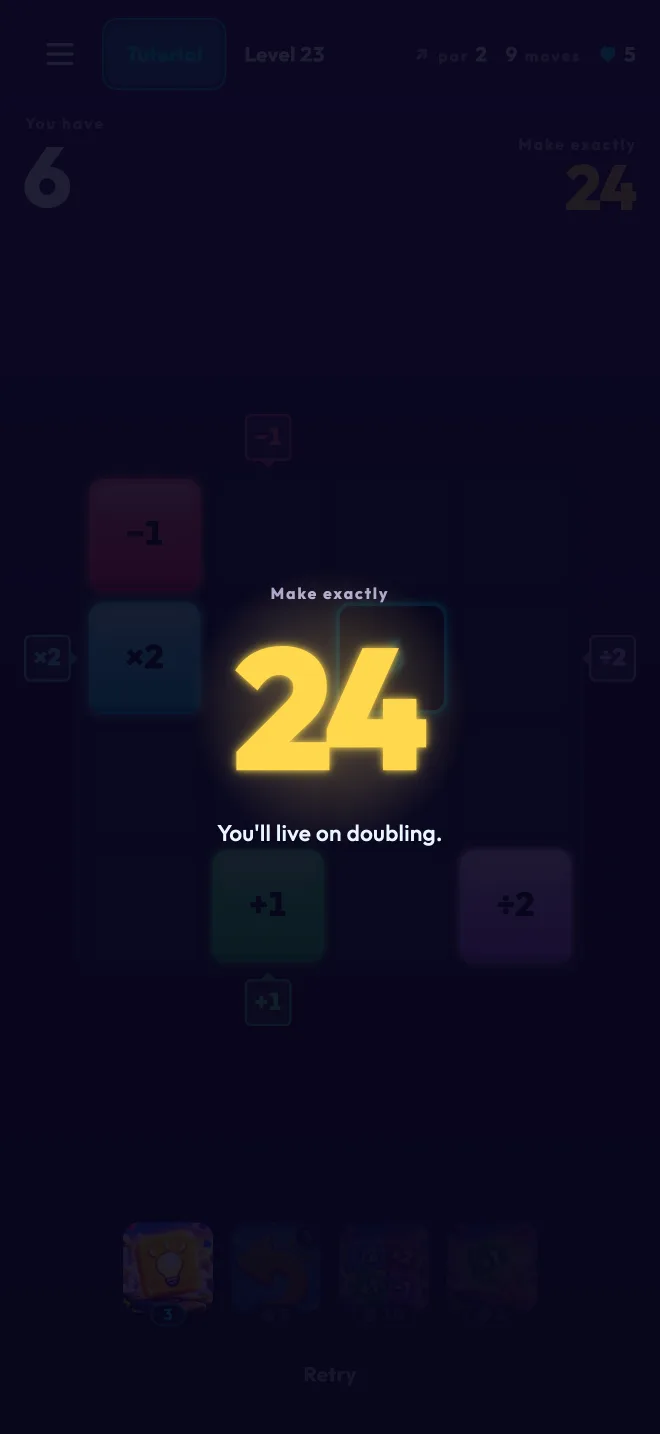
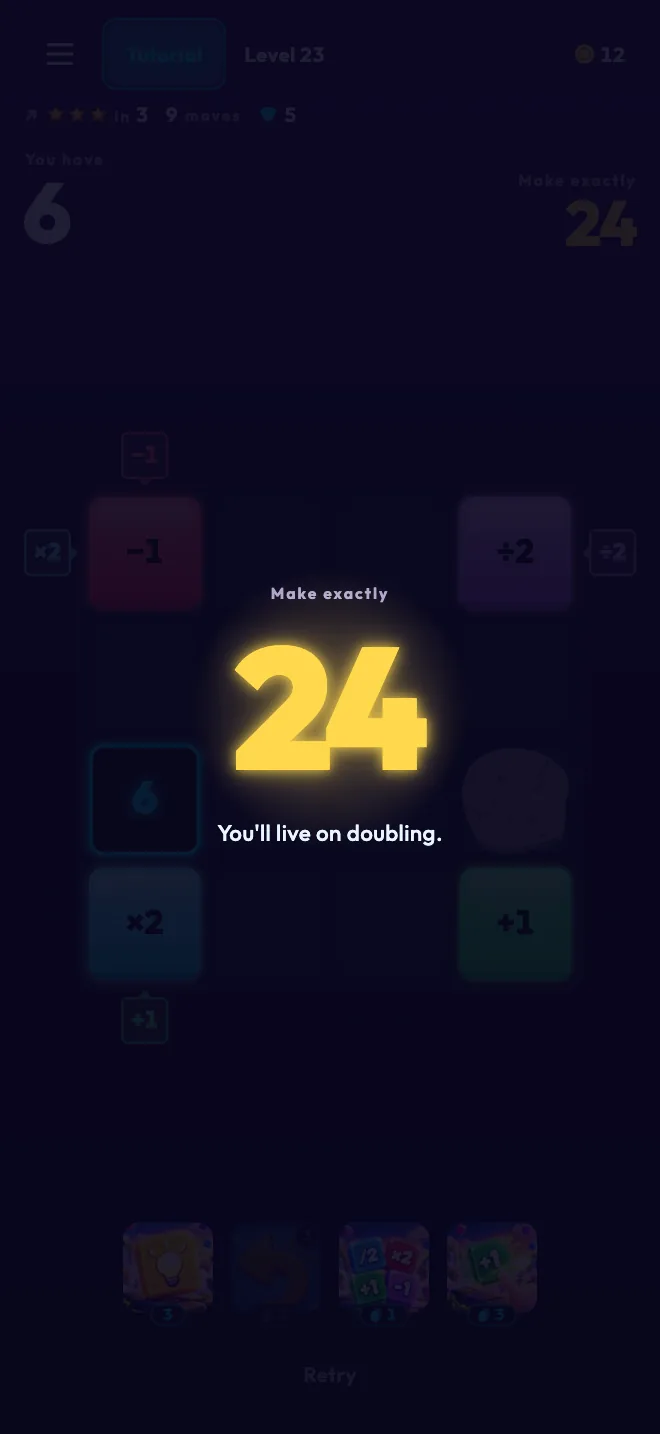
EXAKT's card: today's screenshots, and its in-app purchases said
The six screenshots are redrawn from the app at KernelArch-Lab/exakt
main 38cf4100, at the size the old ones had (660 x 1434). The old ones,
from late October, showed a Home without Pip or the world line, "par"
where the app now says the moves for three stars, coin prices under the
cards, and the map before the story's worlds.

The card now says the game has in-app purchases (a fact, and the
free-to-play line), that coins buy cards and a refill of lives, and that
the server keeps the cards as well as the coins and lives. The levels are
proven solvable before each release rather than "before they ship".

diff --git a/src/kernel-arch-labs.jsx b/src/kernel-arch-labs.jsx
@@ -129,31 +129,32 @@ const PRODUCTS_DATA = [
     szStatus: "Pre-release",
     szOneLiner: "Arithmetic puzzles where you have to hit the number exactly",
     szDescription:
-      "You have a number and a target. Swipe, and your number slides across a board of arithmetic tiles, taking the operations it runs into, and the way you swipe decides which tile comes in next. Land on the target exactly: not close, exactly. All 2,000 levels are generated and then solved by the game's own solver before they ship, so there is no such thing as an impossible board, and the moves for three stars, shown before you start, come from a verified solution.",
+      "You have a number and a target. Swipe, and your number slides across a board of arithmetic tiles, taking the operations it runs into, and the way you swipe decides which tile comes in next. Land on the target exactly: not close, exactly. All 2,000 levels come from the game's own generator, and its own solver proves every one before each release, so there is no such thing as an impossible board, and the moves for three stars, shown before you start, come from a verified solution.",
     vFacts: [
       { szLabel: "Levels", szValue: "2,000" },
       { szLabel: "Free levels", szValue: "All" },
       { szLabel: "Daily puzzle", szValue: "Every day" },
       { szLabel: "Languages", szValue: "EN / DE" },
       { szLabel: "Ads", szValue: "Yes, removable" },
+      { szLabel: "In-app purchases", szValue: "Yes" },
     ],
     vPoints: [
       "Three free hints on every level, each one worked out from the board in front of you by the same solver, never a guess",
       "A daily puzzle, the same for everyone, easy on Monday and hardest at the weekend: no hints, every try free, your first clear counts, and the days before today can be played too, with no streak to keep up",
       "Story 1, The Almost King: the first 300 levels are seven worlds, with a short story of Pip and four friends told in scenes. A scene opens each world, a line follows each first clear, and Skip story leaves any scene. The Home Town changes with each world finished, one tap from Home or the map. Nothing in it is sold, and nothing waits for an ad",
       "A number album: the squares, cubes, primes, powers of two and other special numbers your number becomes on the way to a target join it, each with a line about it. It shows only what you made, with no gaps, counts or dates",
-      "Free to play, with ads from Google AdMob: an ad between levels at most once every four clears, and optional videos for coins or a life. No Ads, bought once, ends the ads between levels",
-      "No analytics or crash reporting of our own. Coins and lives are kept on our server against an anonymous account; signing in is optional, and you can delete your account from inside the app",
+      "Free to play, with in-app purchases: coin packs, an hour of unlimited lives, and No Ads. Coins buy cards (an extra Hint, Back, Place and One more move) and a refill of lives. Ads come from Google AdMob: one between levels at most once every four clears, and optional videos for coins or a life. No Ads, bought once, ends the ads between levels",
+      "No analytics or crash reporting of our own. Coins, cards and lives are kept on our server against an anonymous account; signing in is optional, and you can delete your account from inside the app",
       "An age question at first launch, of which only an age group is kept, on the phone. A child's phone plays with no account, no ads and no purchases",
       "Playable without a swipe: with VoiceOver or TalkBack, Switch Control, a keyboard, or swipe buttons under the board",
     ],
     vShots: [
-      { szSrc: "/exakt/shots/1-home.webp", szAlt: "Home, with the day's puzzle" },
+      { szSrc: "/exakt/shots/1-home.webp", szAlt: "Home, in the Cloud Steps, with the day's puzzle" },
       { szSrc: "/exakt/shots/2-the-target.webp", szAlt: "Level 23 opening on its target, 24" },
-      { szSrc: "/exakt/shots/3-the-board.webp", szAlt: "A four by four board mid-level" },
-      { szSrc: "/exakt/shots/4-the-clear.webp", szAlt: "Level 23 cleared in three moves" },
-      { szSrc: "/exakt/shots/5-the-levels.webp", szAlt: "The level map, with stars and locked levels" },
-      { szSrc: "/exakt/shots/6-the-daily.webp", szAlt: "The daily puzzle" },
+      { szSrc: "/exakt/shots/3-the-board.webp", szAlt: "Level 23 mid-level, with the cards you hold under the board" },
+      { szSrc: "/exakt/shots/4-the-clear.webp", szAlt: "Level 23 cleared in three moves, with a line of the story" },
+      { szSrc: "/exakt/shots/5-the-levels.webp", szAlt: "The Cloud Steps on the level map, with stars and locked levels" },
+      { szSrc: "/exakt/shots/6-the-daily.webp", szAlt: "A Wednesday's daily puzzle: medium, four by four" },
     ],
     // The pages the app and both store listings link to. Each is the app
     // repository's store/*.html, uploaded as-is.
